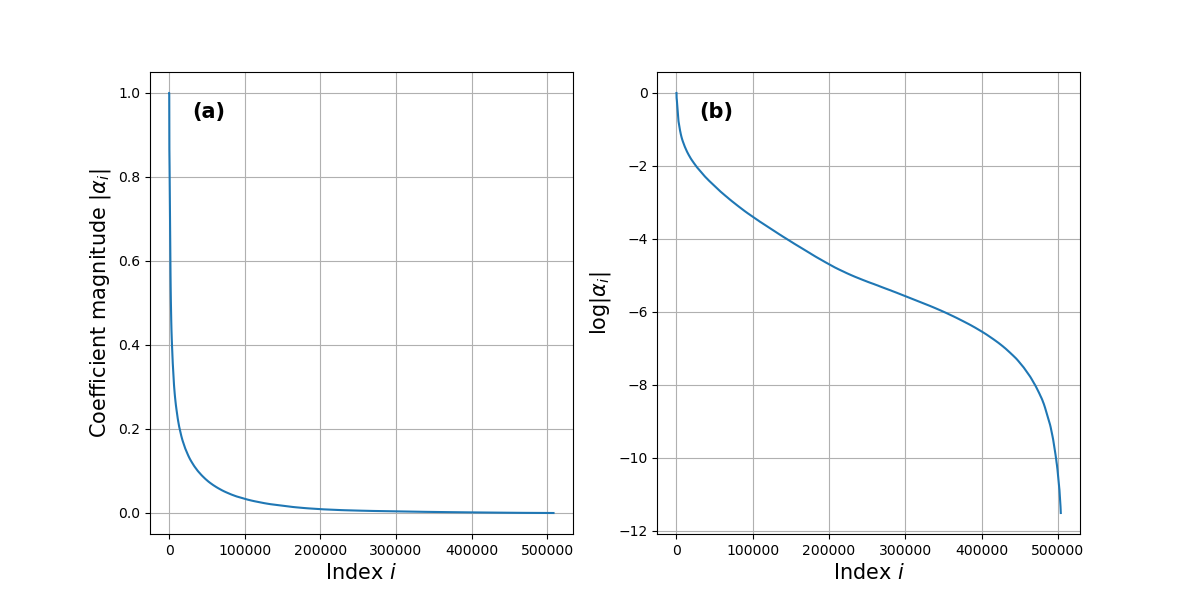
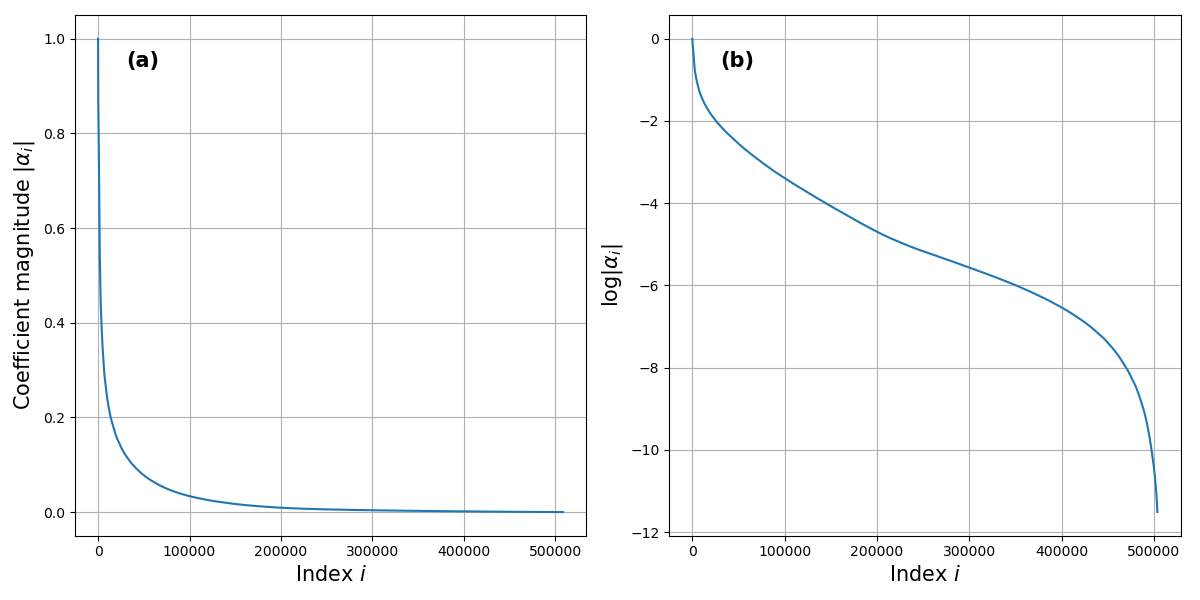
Implemented flower segmentation script

diff --git a/scripts/flower_segmentation.py b/scripts/flower_segmentation.py
@@ -1,5 +1,8 @@
 """
+Script to segment the purple flowers in the image using KMeans clustering and colour thresholding.
 
+Usage:
+python scripts/flower_segmentation.py --img ./data/noisy_flower.jpg --output_dir ./figures
 """
 
 import os
@@ -11,15 +14,108 @@ import matplotlib.pyplot as plt
 import numpy as np
 from sklearn.cluster import KMeans
 
+# add project path to sys.path
+project_root = os.path.abspath(os.path.join(os.path.dirname(__file__), ".."))
+sys.path.append(project_root)
+
+from src.plotting import plot_image_mask_overlay
+
 # Parse arguments
 parser = argparse.ArgumentParser()
 parser.add_argument('--img', type=str, default='./data/noisy_flower.jpg', help='Path to image')
 parser.add_argument('--output_dir', type=str, default='./figures', help='Path to output directory')
-args = parser.parse_args()
+args = parser.parse_args('--img ./data/noisy_flower.jpg'.split(' '))
 
 # Load image
-image_path = './data/noisy_flower.jpg'
+image_path = args.img
 image = io.imread(image_path)
 
 # RGBA -> RGB since alpha=255 everywhere. 
 image = image[:,:,:3]
+
+fig, axes = plt.subplots(1, 3, figsize=(15, 5))
+
+# gaussian blur denoising
+denoised_image = restoration.denoise_bilateral(image, win_size=8, sigma_color=0.15, sigma_spatial=15, channel_axis=-1)
+
+axes[0].imshow(denoised_image)
+axes[0].text(0, 1.05, '(a)', fontsize=20, transform=axes[0].transAxes, fontweight="bold")
+
+################
+# Method 1: KMeans clustering
+################
+
+# Convert image to Lab and remove the lightness channel
+image_lab = color.rgb2lab(denoised_image)
+image_ab = image_lab[:,:,1:]
+pixels = image_ab.reshape((-1, 2))
+
+# Fit KMeans clustering
+kmeans = KMeans(n_clusters=4)
+kmeans.fit(pixels)
+
+# Get the cluster assignments and cluster centers
+cluster_assignments = kmeans.labels_
+cluster_centers = kmeans.cluster_centers_
+cluster_image = cluster_assignments.reshape(image.shape[:2])
+
+# Lab value for purple (source: https://www.e-paint.co.uk/lab-hlc-rgb-lrv-values.asp?cRange=BS+5252&cRef=02+D+45&cDescription=Purple)
+purple = [34.64, 34.45, -4.07]
+purple = purple[1:] # remove lightness channel
+
+assert len(purple) == cluster_centers.shape[1], "Color vector must have the same number of dimensions as the cluster centers"
+
+# Find the cluster center that is closest to purple
+closest_cluster_index = np.argmin(np.linalg.norm(cluster_centers - purple, axis=1))
+km_mask = cluster_image == closest_cluster_index
+
+axes[1].imshow(km_mask, cmap='gray')
+axes[1].text(0, 1.05, '(b)', fontsize=20, transform=axes[1].transAxes, fontweight="bold")
+
+# Morphological operations for cleaning
+km_mask = morphology.remove_small_objects(km_mask, 200) # remove small objects
+km_mask = morphology.remove_small_holes(km_mask, 100) # remove small holes
+
+# binary opening
+selem = morphology.disk(2)
+km_mask = morphology.binary_opening(km_mask, selem)
+
+axes[2].imshow(km_mask, cmap='gray')
+axes[2].text(0, 1.05, '(c)', fontsize=20, transform=axes[2].transAxes, fontweight="bold")
+
+for ax in axes:
+    ax.axis('off')
+
+################
+# Method 2: Colour thresholding
+################
+
+# Convert image to HSV and threshold based on hue
+image_hsv = color.rgb2hsv(denoised_image)
+purple_hue_range = [0.7, 0.96]
+cf_mask = (image_hsv[..., 0] > purple_hue_range[0]) & (image_hsv[..., 0] < purple_hue_range[1])
+
+cf_mask = morphology.remove_small_objects(cf_mask, 200)
+cf_mask = morphology.remove_small_holes(cf_mask, 100)
+
+# binary opening
+selem = morphology.disk(2)
+cf_mask = morphology.binary_opening(cf_mask, selem)
+
+fig.savefig(join(args.output_dir, 'flower_steps.png'))
+
+fig, axes = plt.subplots(1, 2, figsize=(10, 5))
+
+# axes[0].imshow(image, cmap='gray')
+plot_image_mask_overlay(image, km_mask, axes[0], dim_factor=0.15, cmap='jet', border_color='yellow', border_width=0.7)
+# axes[0].imshow(km_mask, alpha=0.2, cmap='jet')
+axes[0].text(0, 1.05, '(a) KMeans', fontsize=12, transform=axes[0].transAxes, fontweight="bold")
+
+plot_image_mask_overlay(image, cf_mask, axes[1], dim_factor=0.15, cmap='jet', border_color='yellow', border_width=0.7)
+axes[1].text(0, 1.05, '(b) Colour Threshold', fontsize=12, transform=axes[1].transAxes, fontweight="bold")
+
+for ax in axes:
+    ax.axis('off')
+
+plt.tight_layout()
+fig.savefig(join(args.output_dir, 'flower_segmentation.png'))

diff --git a/scripts/wavelet_compression.py b/scripts/wavelet_compression.py
@@ -54,6 +54,7 @@ coeff_arr, coeff_slices = pywt.coeffs_to_array(coeffs)
 fig, ax = plt.subplots(1, 1, figsize=(10, 10))
 ax.imshow(coeff_arr, cmap='gray',vmin=-0.4,vmax=0.75)
 ax.axis('off')
+plt.tight_layout()
 fig.savefig(join(args.output_dir, 'e2p3_transform.png'), dpi=300)
 
 coeffs = pywt.wavedec2(image,wavelet=w,mode=mode,level=n)
@@ -88,7 +89,6 @@ for ax in axes:
     ax.axis('off')
 
 plt.tight_layout()
-
 fig.savefig(join(args.output_dir, 'e2p3_uncompressed.png'))
 
 coeff_sort = np.array(sorted(np.abs(coeff_arr).flatten(), reverse=True))
@@ -109,6 +109,7 @@ axes[1].set_ylabel(r'$\log|\alpha_i|$', fontsize=15)
 axes[1].set_xlabel(r'Index $i$', fontsize=15)
 axes[1].grid()
 
+plt.tight_layout()
 fig.savefig(join(args.output_dir, 'e2p3_coefficients.png'))
 
 ##################
@@ -164,7 +165,6 @@ for ax in axes:
     ax.axis('off')
 
 plt.tight_layout()
-
 fig.savefig(join(args.output_dir, 'e2p3_threshold_15.png'))
 
 # Plot the coefficients and highlight the largest 15%
@@ -175,6 +175,7 @@ retained = pywt.coeffs_to_array(coeff_thresh)[0] > 0
 ax.imshow(retained, cmap='gray')
 ax.axis('off')
 
+plt.tight_layout()
 fig.savefig(join(args.output_dir, 'e2p3_threshold_transform.png'))
 
 #####################
@@ -185,7 +186,7 @@ coeffs = pywt.wavedec2(image,wavelet=w,mode=mode,level=n)
 
 keep_proportions = [0.2, 0.1, 0.05, 0.025, 0.005]
 
-fig, axes = plt.subplots(2, len(keep_proportions), figsize=(15, 8))
+fig, axes = plt.subplots(2, len(keep_proportions), figsize=(15, 6))
 
 for i, keep in enumerate(keep_proportions):
 

diff --git a/src/plotting.py b/src/plotting.py
@@ -1,7 +1,7 @@
 from skimage import measure
 import numpy as np
 
-def plot_image_mask_overlay(image, mask, ax, dim_factor=0.3, cmap=None, border_color='yellow'):
+def plot_image_mask_overlay(image, mask, ax, dim_factor=0.3, cmap=None, border_color='yellow', border_width=1):
     """
     Plot an image with a segmentation mask overlaid.
     """
@@ -12,7 +12,7 @@ def plot_image_mask_overlay(image, mask, ax, dim_factor=0.3, cmap=None, border_c
         ax.imshow(result_image, cmap=cmap)
     else:
         ax.imshow(image)
-        ax.imshow(mask, cmap=cmap, alpha=0.1)
+        ax.imshow(mask, cmap=cmap, alpha=dim_factor)
     contours = measure.find_contours(mask, 0.5)
     for contour in contours:
-        ax.plot(contour[:, 1], contour[:, 0], linewidth=1, color=border_color)
+        ax.plot(contour[:, 1], contour[:, 0], linewidth=border_width, color=border_color)
